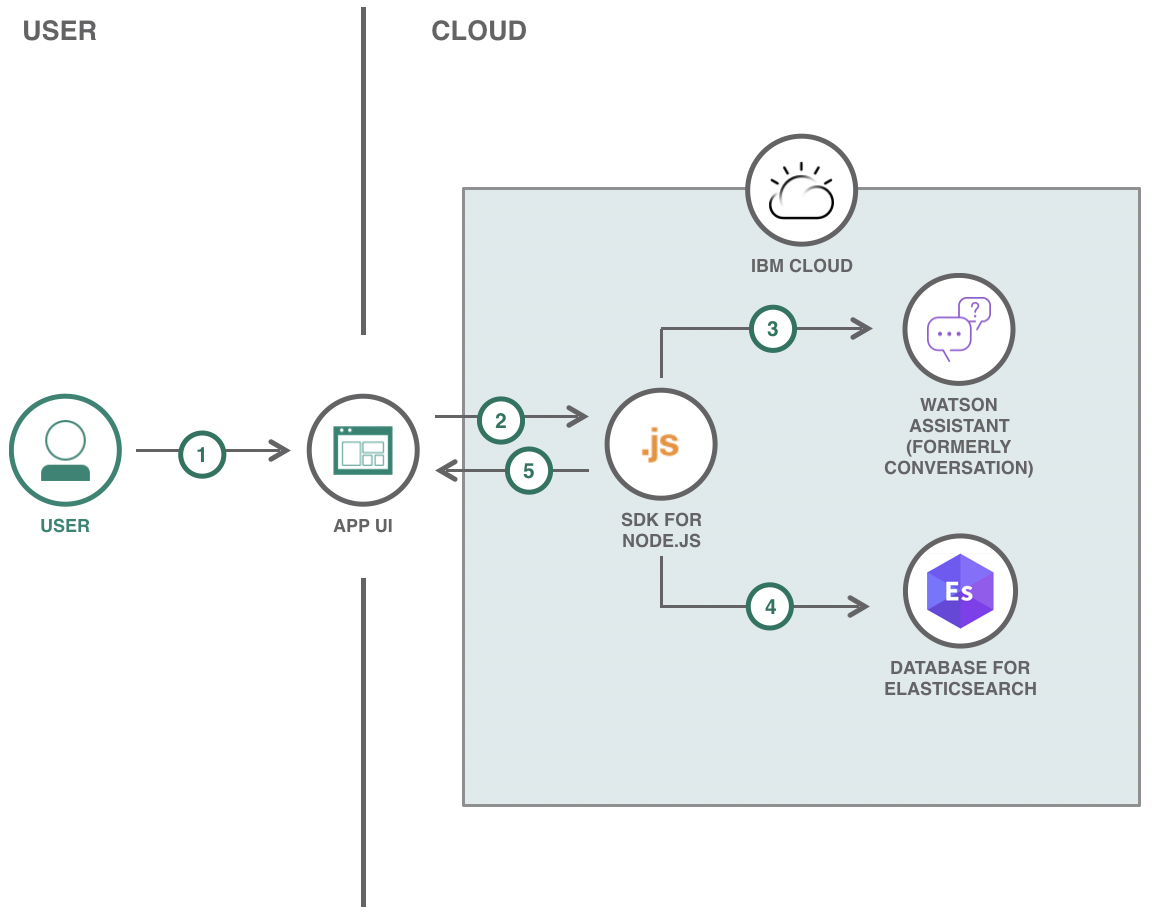
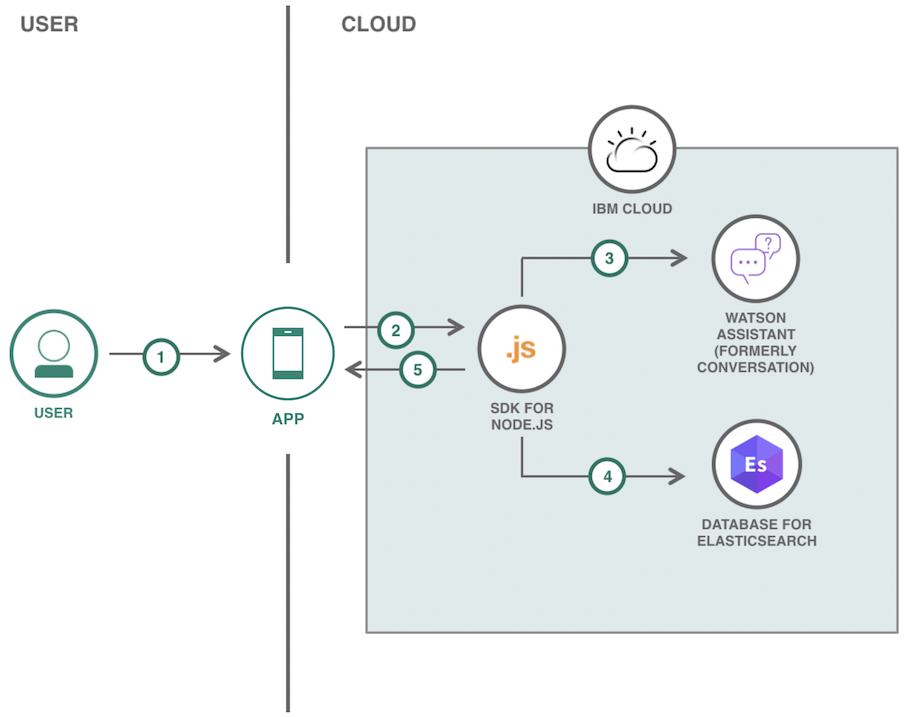
Specified mobile app

diff --git a/README.md b/README.md
@@ -21,7 +21,7 @@ After completing this pattern, you will understand how to:
 
 ![](readme_images/cf_architecture.png)
 
-1. User interacts with chatbot from the React UI by asking question via text.
+1. User interacts with chatbot from the React UI of the mobile application by asking a question via text.
 2. React UI sends User's message to the Node.js backend on Cloud Foundry. 
 3. The Node.js backend sends the message to Watson Assistant to determine the intent and entities of the User's message.
 4. The Node.js backend querys the Elasticsearch database based on the intents and entities processed by Watson Assistant.
